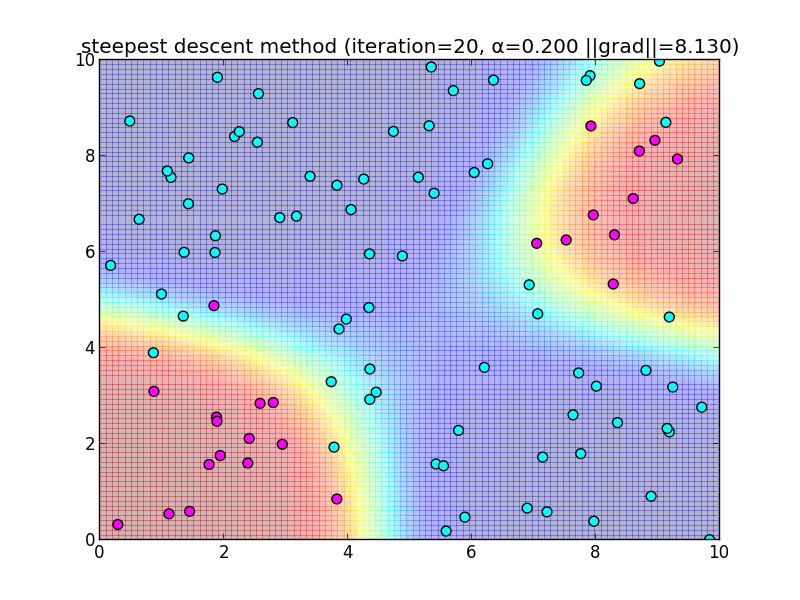
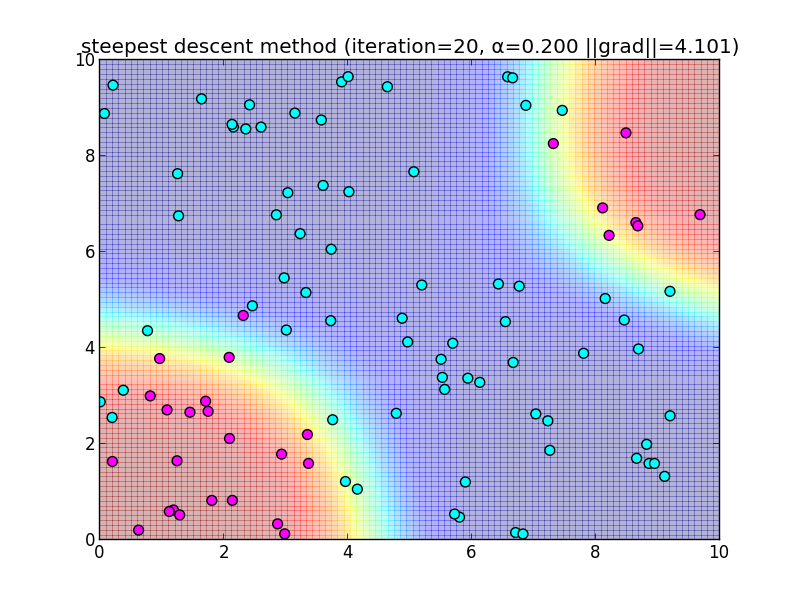
Fix example 5-2.

diff --git a/5.html b/5.html
@@ -604,6 +604,10 @@ OverflowError: math range error
         <p> 反復100回目の様子. </p>
         <div align="center"> <img width="700px" src="prog/fig5-2-iter100.png"> <a href="prog/prog5-2.py" style="font-size:60%">prog5-2.py</a> </div>
         </section>
+        <section>
+        <p> 153回目で反復停止. </p>
+        <div align="center"> <img width="700px" src="prog/fig5-2-iter153.png"> <a href="prog/prog5-2.py" style="font-size:60%">prog5-2.py</a> </div>
+        </section>
 
         <section>
         <p>
